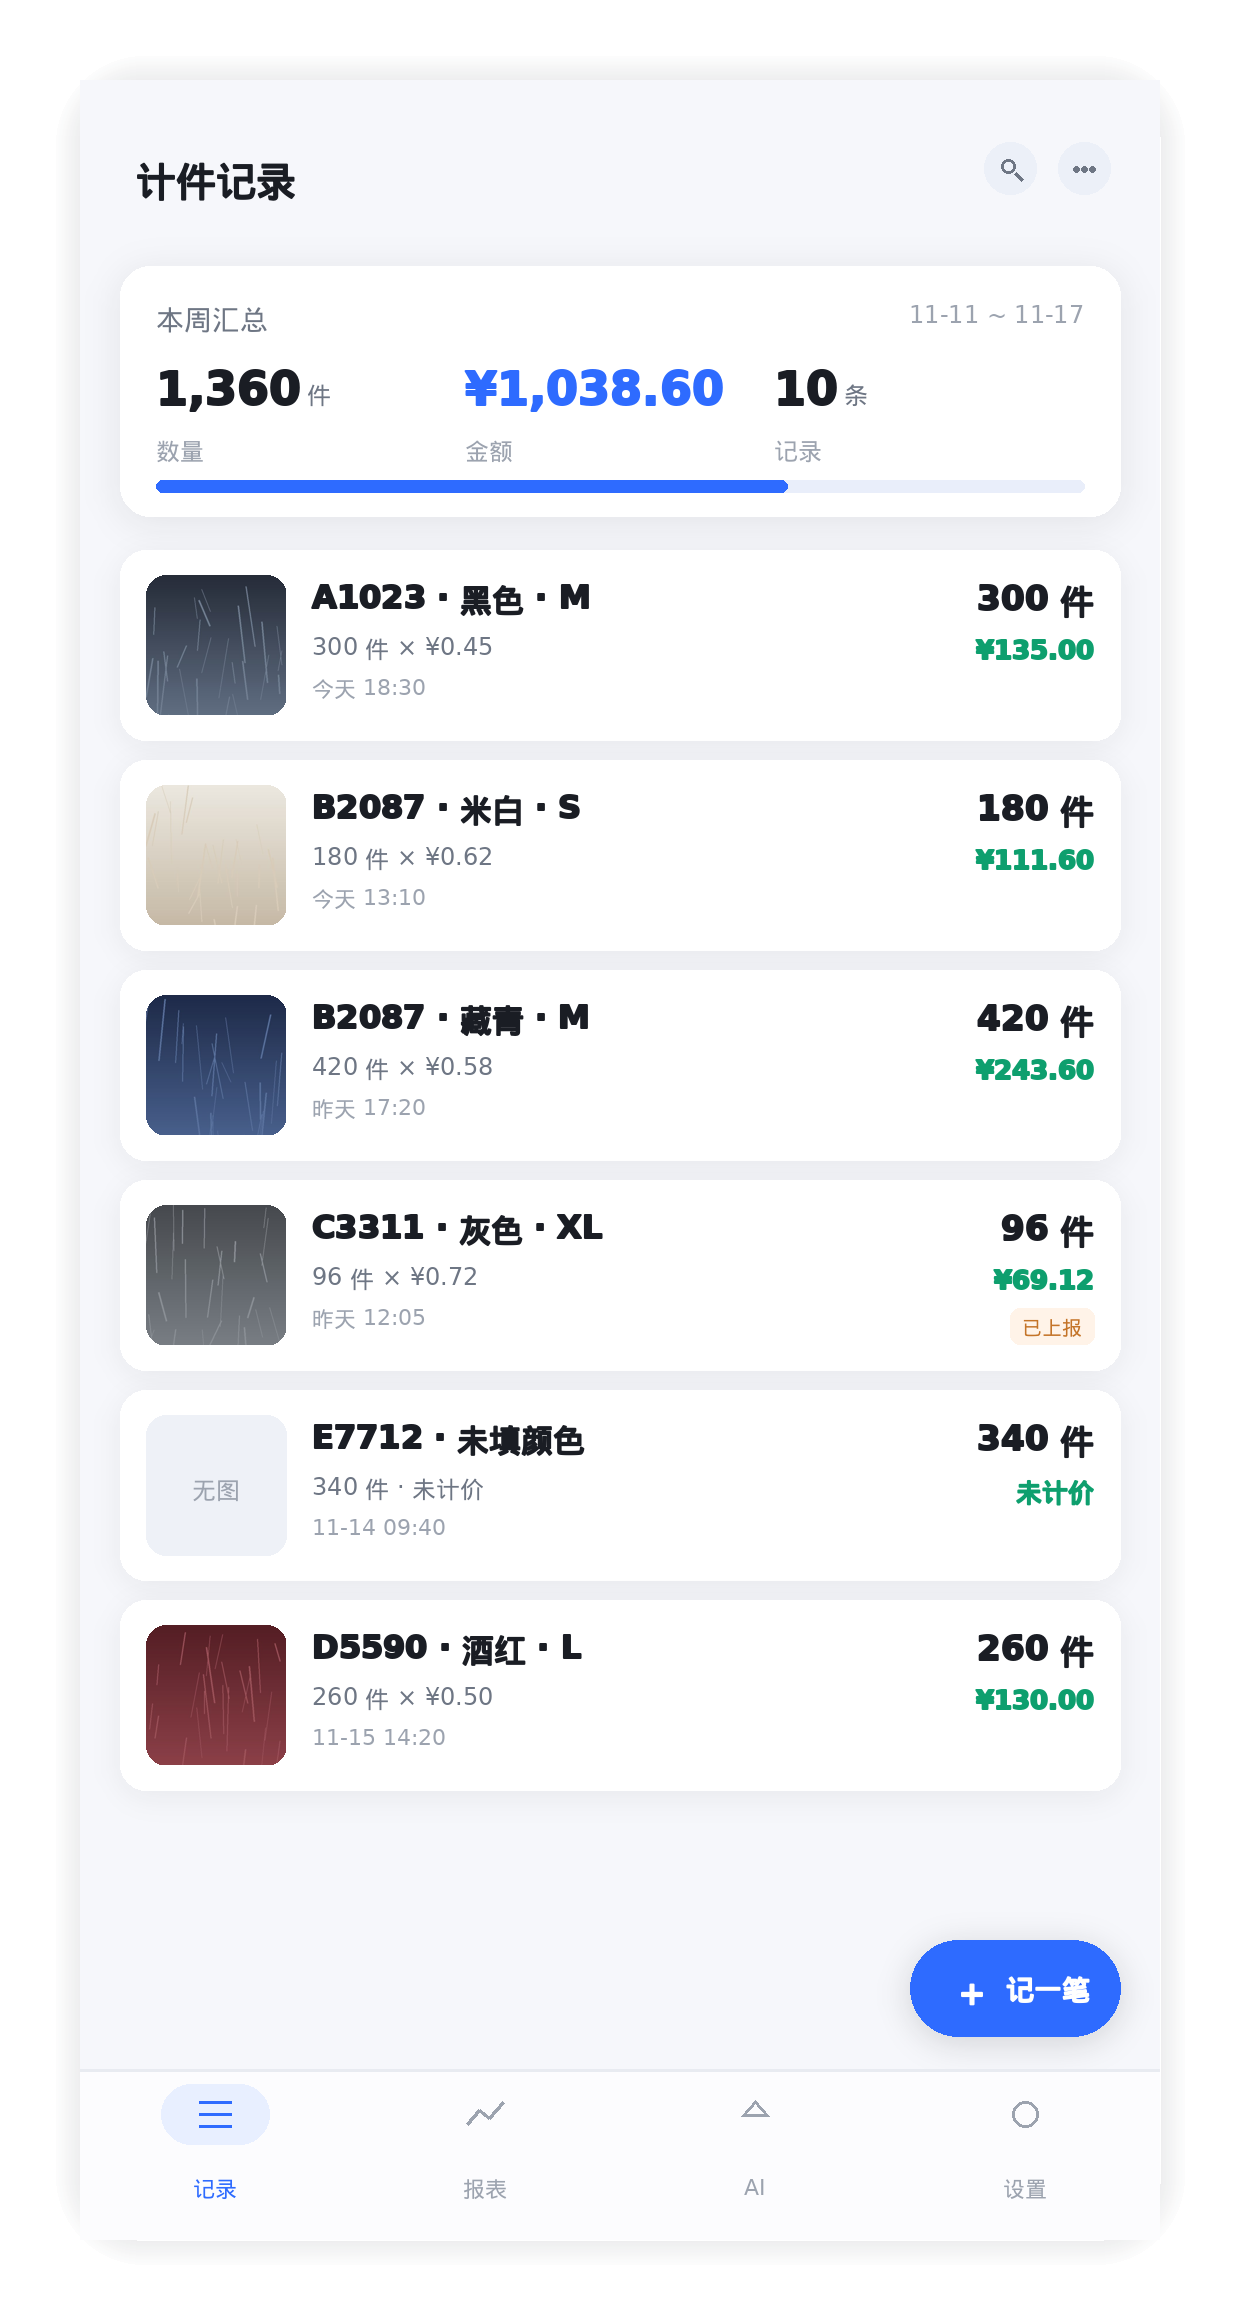
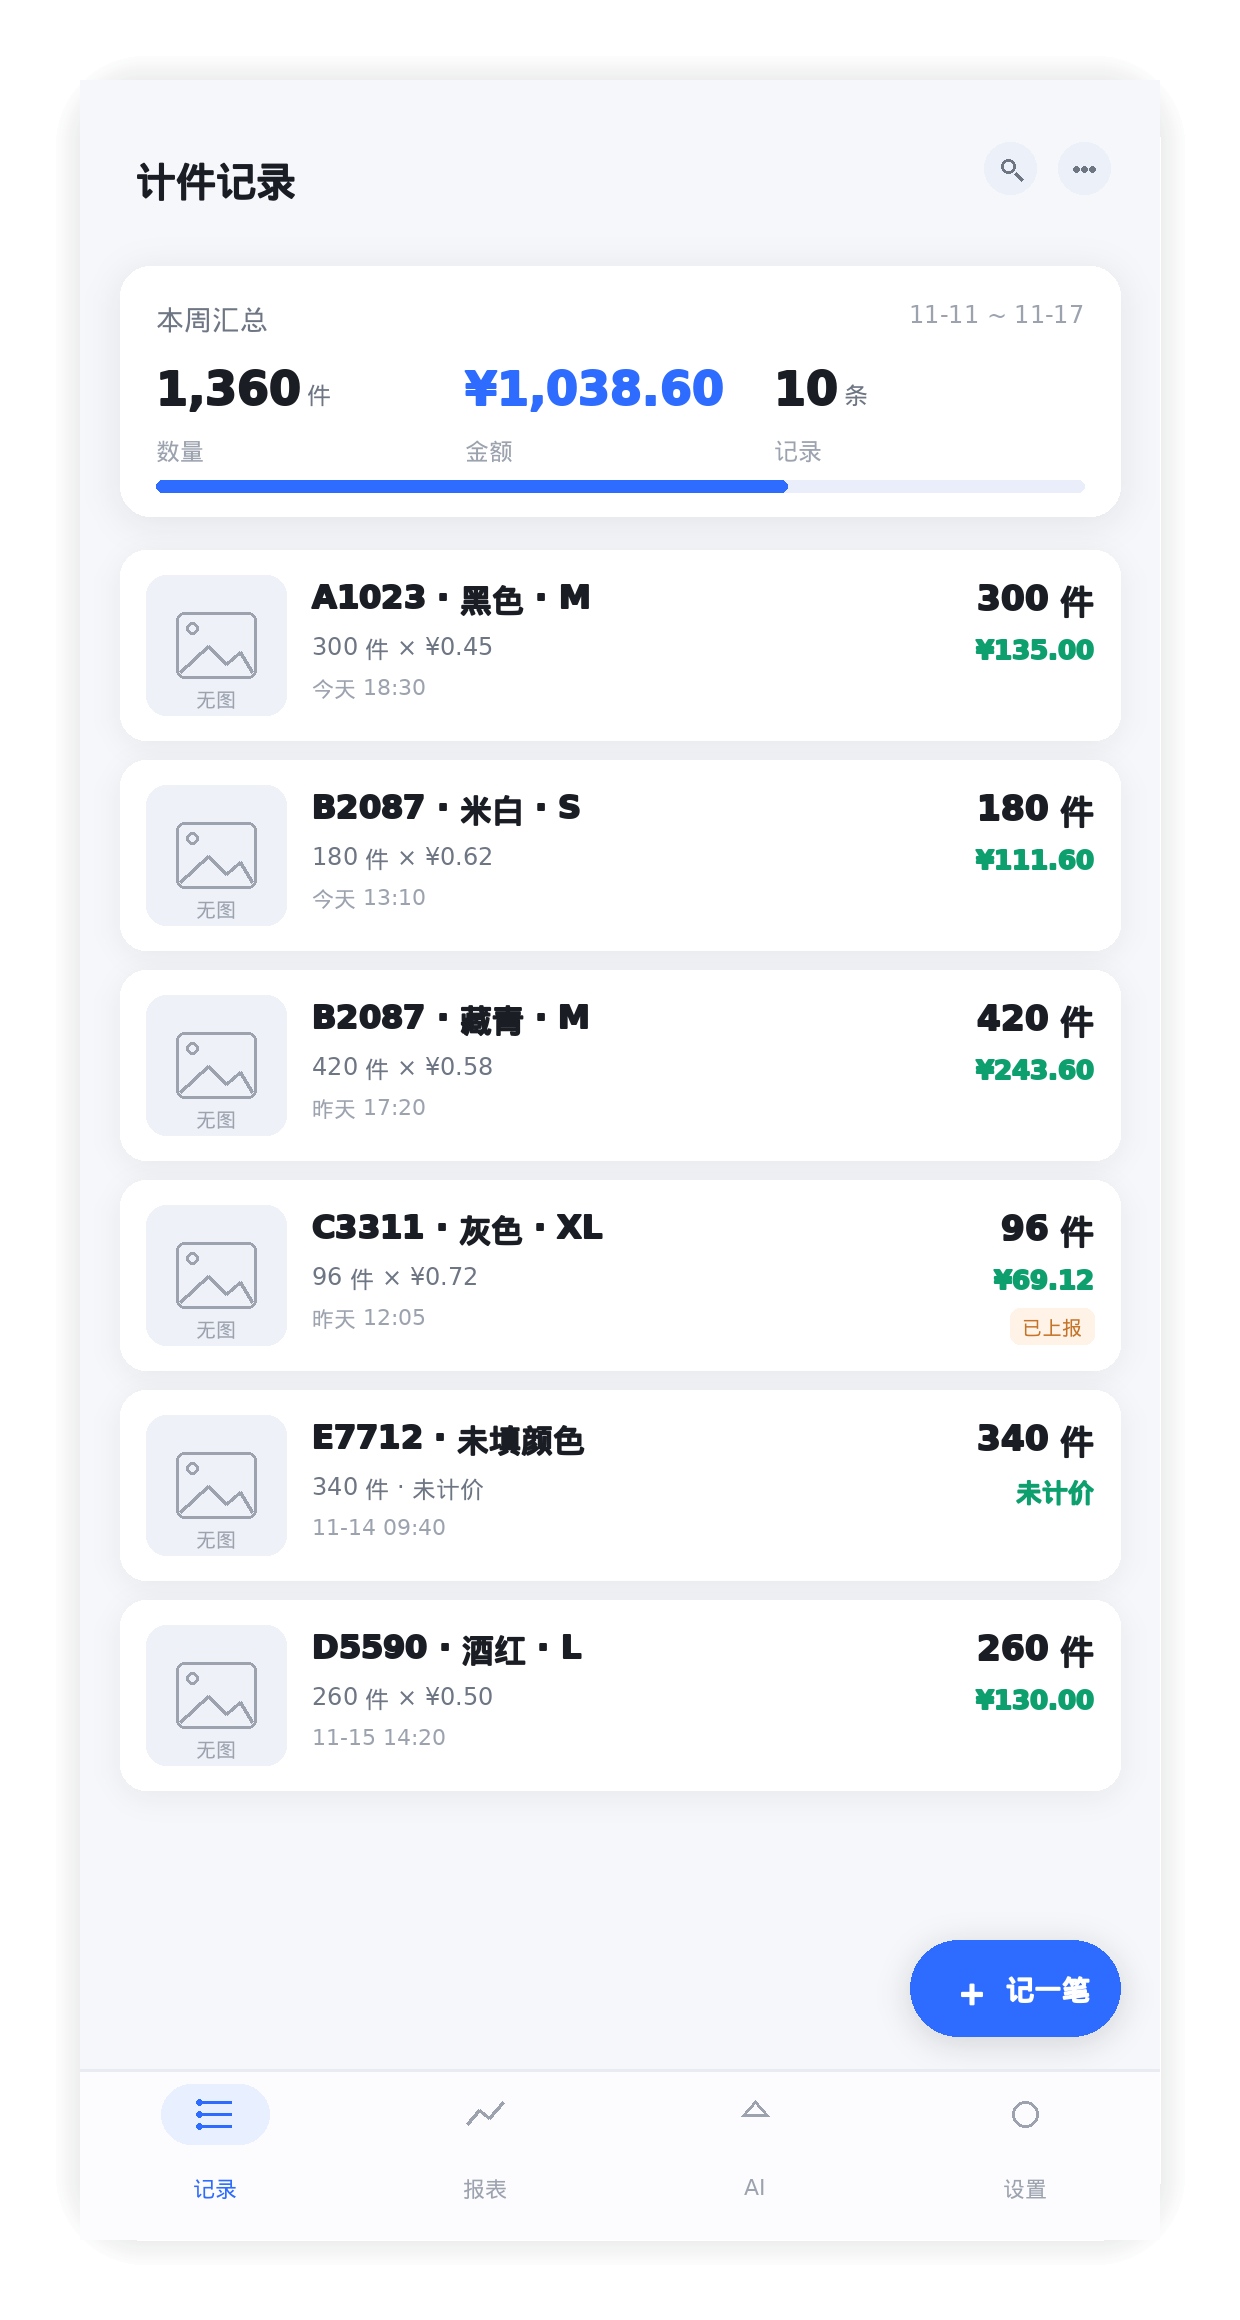
docs: 截图不再使用生成的假实拍图
- 之前用 PIL 生成的渐变图既像噪声、又和真实货物毫无关系，属于误导
- 改为按 App 真实行为绘制「无图」占位（灰底 + 图片图标 + 无图），
  数据仍为示例，README 明确标注
- 删除不再需要的 tool/fixtures/photos

Changed region(s): [[0.0919, 0.3414, 0.2452, 0.5897], [0.0919, 0.6207, 0.2452, 0.7759], [0.0919, 0.2483, 0.2452, 0.3103]]

diff --git a/tool/make_screenshots.py b/tool/make_screenshots.py
@@ -17,7 +17,6 @@ FONT_CJK = '/usr/share/fonts/truetype/droid/DroidSansFallbackFull.ttf'
 FONT_LATIN = '/usr/share/fonts/truetype/dejavu/DejaVuSans.ttf'
 FONT_LATIN_BOLD = '/usr/share/fonts/truetype/dejavu/DejaVuSans-Bold.ttf'
 OUT = os.path.join(os.path.dirname(__file__), '..', 'docs', 'screenshots')
-PHOTO_DIR = os.path.join(os.path.dirname(__file__), 'fixtures', 'photos')
 
 W, H = 1080, 2160
 BG = (246, 247, 251)
@@ -154,17 +153,16 @@ def record_card(img, d, y, rec):
     box = (40, y, W - 40, y + h)
     shadow_card(img, box, blur=14, alpha=16)
     round_rect(d, box, 26, CARD)
-    # 缩略图
-    thumb = rec['thumb']
-    if thumb:
-        thumb = os.path.join(PHOTO_DIR, thumb)
-        t = Image.open(thumb).convert('RGB').resize((140, 140))
-        mask = Image.new('L', (140, 140), 0)
-        ImageDraw.Draw(mask).rounded_rectangle((0, 0, 140, 140), radius=20, fill=255)
-        img.paste(t, (66, y + 25), mask)
-    else:
-        round_rect(d, (66, y + 25, 206, y + 165), 20, (238, 241, 247))
-        text(d, (136, y + 95), '无图', 24, INK3, anchor='mm')
+    # 缩略图：统一用 App 的「无图」占位（不拿生成图冒充货物实拍）
+    round_rect(d, (66, y + 25, 206, y + 165), 20, (238, 241, 247))
+    # 简单的「图片」图标：圆角矩形 + 太阳 + 山
+    d.rounded_rectangle((96, y + 62, 176, y + 128), radius=8, outline=INK3, width=3)
+    d.ellipse((106, y + 72, 118, y + 84), outline=INK3, width=3)
+    d.line((100, y + 122, 128, y + 96), fill=INK3, width=3)
+    d.line((128, y + 96, 146, y + 114), fill=INK3, width=3)
+    d.line((146, y + 114, 160, y + 102), fill=INK3, width=3)
+    d.line((160, y + 102, 172, y + 122), fill=INK3, width=3)
+    text(d, (136, y + 136), '无图', 20, INK3, anchor='ma')
     # 型号 · 颜色 · 码数
     text(d, (232, y + 28), rec['title'], 32, INK, bold=True)
     text(d, (232, y + 82), rec['sub'], 24, INK2)
@@ -202,6 +200,8 @@ def fab_and_nav(img, d, active=0):
             for k in range(3):
                 d.line((cx - 16, cy - 12 + k * 12, cx + 16, cy - 12 + k * 12),
                        fill=color, width=3)
+                d.ellipse((cx - 19, cy - 15 + k * 12, cx - 13, cy - 9 + k * 12),
+                          fill=color)
         elif i == 1:
             d.line((cx - 18, cy + 10, cx - 6, cy - 4), fill=color, width=3)
             d.line((cx - 6, cy - 4, cx + 4, cy + 4), fill=color, width=3)
@@ -215,17 +215,17 @@ def fab_and_nav(img, d, active=0):
 
 
 RECORDS = [
-    dict(thumb='c_fake0.jpg', title='A1023 · 黑色 · M', sub='300 件 × ¥0.45',
+    dict(thumb=None, title='A1023 · 黑色 · M', sub='300 件 × ¥0.45',
          time='今天 18:30', qty='300 件', amount='¥135.00'),
-    dict(thumb='c_fake1.jpg', title='B2087 · 米白 · S', sub='180 件 × ¥0.62',
+    dict(thumb=None, title='B2087 · 米白 · S', sub='180 件 × ¥0.62',
          time='今天 13:10', qty='180 件', amount='¥111.60'),
-    dict(thumb='c_fake2.jpg', title='B2087 · 藏青 · M', sub='420 件 × ¥0.58',
+    dict(thumb=None, title='B2087 · 藏青 · M', sub='420 件 × ¥0.58',
          time='昨天 17:20', qty='420 件', amount='¥243.60'),
-    dict(thumb='c_fake4.jpg', title='C3311 · 灰色 · XL', sub='96 件 × ¥0.72',
+    dict(thumb=None, title='C3311 · 灰色 · XL', sub='96 件 × ¥0.72',
          time='昨天 12:05', qty='96 件', amount='¥69.12', tag='已上报'),
     dict(thumb=None, title='E7712 · 未填颜色', sub='340 件 · 未计价',
          time='11-14 09:40', qty='340 件', amount='未计价'),
-    dict(thumb='c_fake3.jpg', title='D5590 · 酒红 · L', sub='260 件 × ¥0.50',
+    dict(thumb=None, title='D5590 · 酒红 · L', sub='260 件 × ¥0.50',
          time='11-15 14:20', qty='260 件', amount='¥130.00'),
 ]
 

diff --git a/README.md b/README.md
@@ -11,7 +11,7 @@
 </p>
 
 <p align="center">
-  <sub>界面示意图（示例数据，由 <code>tool/make_screenshots.py</code> 脚本绘制；不是真机截图）</sub>
+  <sub>界面示意图：数据为示例，缩略图按 App 的真实「无图」占位绘制（不拿生成图冒充货物实拍）；由 <code>tool/make_screenshots.py</code> 脚本绘制，不是真机截图</sub>
 </p>
 
 一个**纯本地**的安卓计件统计 App：先在 App 里把计件资料和**货物实拍**登记好，之后对照 App 里的数据，去别的软件手动填工票（上报）。
